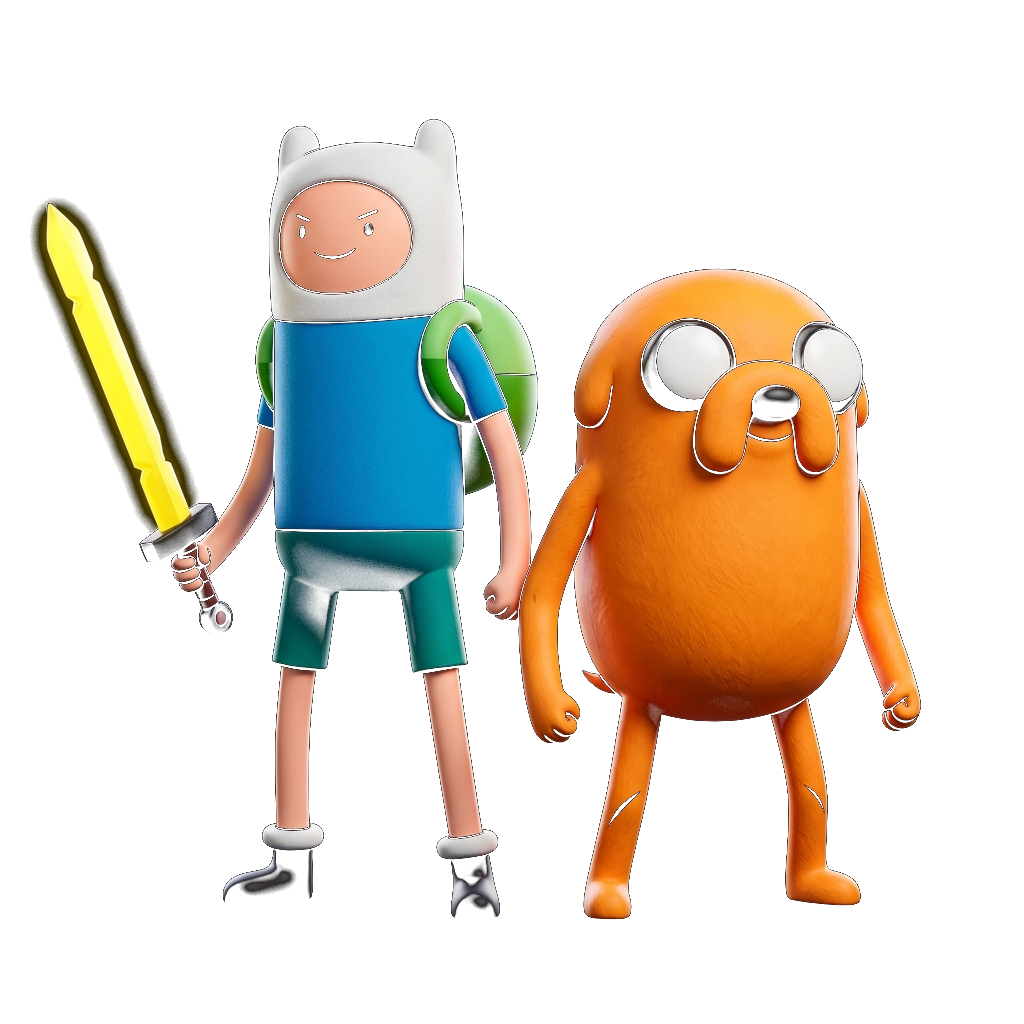
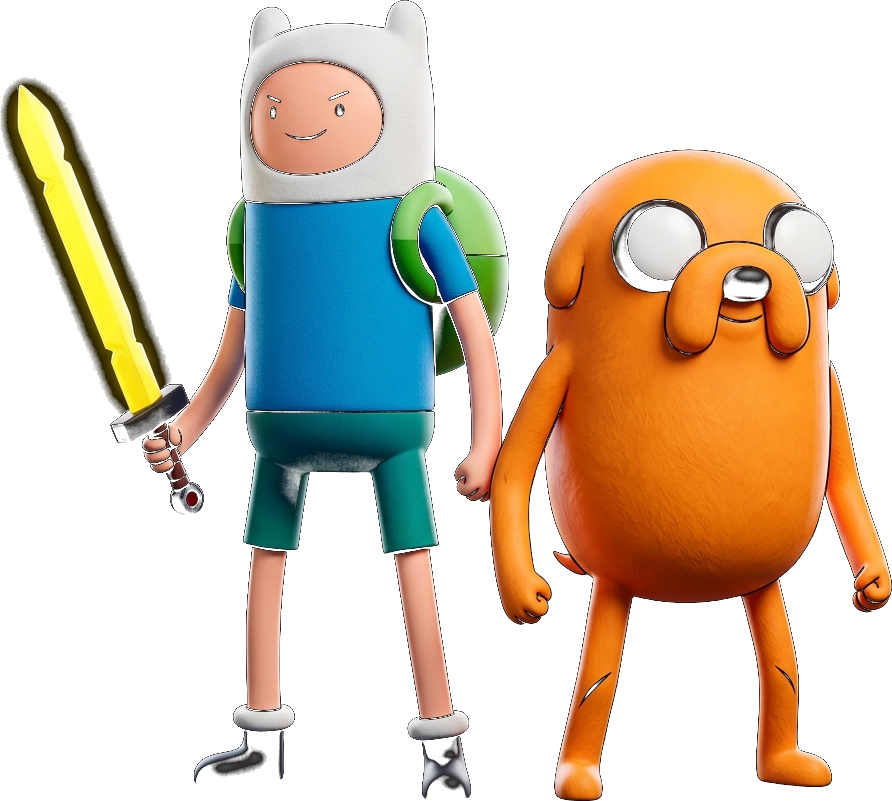
fix: remove all white background artifacts from cutouts, anchor cutouts to right edge, and blend into atmospheric scene

diff --git a/src/components/home/ThematicShowcase.tsx b/src/components/home/ThematicShowcase.tsx
@@ -451,7 +451,7 @@ const THEMATIC_BANNERS: ThematicBannerDef[] = [
     bgGradient: 'from-[#3a0815]/90 via-[#1e050c]/95 to-[#0b0306]',
     accentGlow: 'shadow-[0_0_80px_-20px_rgba(225,29,72,0.35)]',
     borderAccent: 'border-rose-900/30 hover:border-rose-500/40',
-    radialGlow: 'radial-gradient(circle at 65% 40%, rgba(225,29,72,0.32) 0%, rgba(159,18,57,0.15) 45%, transparent 75%)',
+    radialGlow: 'radial-gradient(circle at 82% 38%, rgba(225,29,72,0.42) 0%, rgba(159,18,57,0.18) 45%, transparent 75%)',
     cutoutArt: '/assets/cutouts/hotd-cutout.png',
     cutoutAlt: 'House of the Dragon - Daemon Targaryen',
     logoArt: 'https://image.tmdb.org/t/p/w500/sWW8VURTOT0yVLS6Jlxw6BQQUSZ.png',
@@ -558,7 +558,7 @@ const THEMATIC_BANNERS: ThematicBannerDef[] = [
     bgGradient: 'from-[#6b3306]/85 via-[#381602]/95 to-[#0d0501]',
     accentGlow: 'shadow-[0_0_80px_-20px_rgba(245,158,11,0.35)]',
     borderAccent: 'border-amber-900/30 hover:border-amber-500/40',
-    radialGlow: 'radial-gradient(circle at 65% 40%, rgba(245,158,11,0.32) 0%, rgba(180,83,9,0.15) 45%, transparent 75%)',
+    radialGlow: 'radial-gradient(circle at 82% 38%, rgba(245,158,11,0.42) 0%, rgba(180,83,9,0.18) 45%, transparent 75%)',
     cutoutArt: '/assets/cutouts/dune-cutout.png',
     cutoutAlt: 'Dune: Part Two - Paul Atreides & Chani',
     logoArt: 'https://image.tmdb.org/t/p/w500/eYvF1LhPKuoBxOAmWjFTAK7EPWl.png',
@@ -665,7 +665,7 @@ const THEMATIC_BANNERS: ThematicBannerDef[] = [
     bgGradient: 'from-[#0f223d]/90 via-[#0a1527]/95 to-[#020712]',
     accentGlow: 'shadow-[0_0_80px_-20px_rgba(56,189,248,0.3)]',
     borderAccent: 'border-sky-900/30 hover:border-sky-500/40',
-    radialGlow: 'radial-gradient(circle at 65% 40%, rgba(56,189,248,0.3) 0%, rgba(14,116,144,0.15) 45%, transparent 75%)',
+    radialGlow: 'radial-gradient(circle at 82% 38%, rgba(56,189,248,0.38) 0%, rgba(14,116,144,0.18) 45%, transparent 75%)',
     cutoutArt: '/assets/cutouts/got-cutout.png',
     cutoutAlt: 'Game of Thrones - Daenerys Targaryen & Jon Snow',
     logoArt: 'https://image.tmdb.org/t/p/w500/6pObznbCoxVpY1lPQwJxETd7Phe.png',
@@ -772,7 +772,7 @@ const THEMATIC_BANNERS: ThematicBannerDef[] = [
     bgGradient: 'from-[#044336]/85 via-[#022720]/95 to-[#010e0b]',
     accentGlow: 'shadow-[0_0_80px_-20px_rgba(20,184,166,0.35)]',
     borderAccent: 'border-teal-900/30 hover:border-teal-500/40',
-    radialGlow: 'radial-gradient(circle at 65% 40%, rgba(20,184,166,0.32) 0%, rgba(13,148,136,0.15) 45%, transparent 75%)',
+    radialGlow: 'radial-gradient(circle at 82% 38%, rgba(20,184,166,0.42) 0%, rgba(13,148,136,0.18) 45%, transparent 75%)',
     cutoutArt: '/assets/cutouts/naked-and-afraid-cutout.png',
     cutoutAlt: 'Naked and Afraid Survivalists',
     logoArt: 'https://image.tmdb.org/t/p/w500/8czXfVg26ohZB41TijcXkMcbedc.png',
@@ -879,7 +879,7 @@ const THEMATIC_BANNERS: ThematicBannerDef[] = [
     bgGradient: 'from-[#713f12]/85 via-[#452207]/95 to-[#120701]',
     accentGlow: 'shadow-[0_0_80px_-20px_rgba(234,179,8,0.35)]',
     borderAccent: 'border-yellow-900/30 hover:border-yellow-500/40',
-    radialGlow: 'radial-gradient(circle at 65% 40%, rgba(234,179,8,0.32) 0%, rgba(161,98,7,0.15) 45%, transparent 75%)',
+    radialGlow: 'radial-gradient(circle at 82% 38%, rgba(234,179,8,0.42) 0%, rgba(161,98,7,0.18) 45%, transparent 75%)',
     cutoutArt: '/assets/cutouts/family-cutout.png',
     cutoutAlt: 'Adventure Time - Finn & Jake',
     logoArt: 'https://image.tmdb.org/t/p/w500/rIi0lY2UftYuKDJ4OlIefDdijve.png',
@@ -1190,14 +1190,14 @@ export const ThematicShowcase: React.FC<ThematicShowcaseProps> = ({
 
               {/* Dynamic Atmospheric Radial Glow behind character cutout */}
               <div
-                className="absolute right-0 sm:right-6 lg:right-20 top-0 bottom-0 w-72 sm:w-[500px] lg:w-[680px] pointer-events-none select-none opacity-80 z-[3]"
+                className="absolute right-0 top-0 bottom-0 w-80 sm:w-[540px] lg:w-[720px] pointer-events-none select-none opacity-90 z-[3]"
                 style={{
                   background: banner.radialGlow,
                 }}
               />
 
-              {/* High-Impact Character Cutout PNG (Feathered top & bottom mask, prominently revealed above compact cards) */}
-              <div className="absolute right-1 xs:right-2 sm:right-6 md:right-10 lg:right-16 xl:right-24 2xl:right-28 top-2 sm:top-3 md:top-4 lg:top-5 h-[300px] sm:h-[400px] md:h-[470px] lg:h-[540px] xl:h-[610px] 2xl:h-[660px] pointer-events-none select-none z-[12] flex items-start [mask-image:linear-gradient(to_bottom,transparent_0%,black_6%,black_75%,transparent_100%)]">
+              {/* High-Impact Character Cutout PNG (Feathered mask and anchored to the right edge) */}
+              <div className="absolute right-0 sm:right-0 md:right-1 lg:right-2 xl:right-3 2xl:right-4 top-1 sm:top-2 md:top-3 lg:top-4 h-[320px] sm:h-[420px] md:h-[490px] lg:h-[560px] xl:h-[630px] 2xl:h-[680px] pointer-events-none select-none z-[12] flex items-start [mask-image:linear-gradient(to_bottom,transparent_0%,black_6%,black_78%,transparent_100%)]">
                 <img
                   src={banner.cutoutArt}
                   alt={banner.cutoutAlt}
@@ -1205,9 +1205,12 @@ export const ThematicShowcase: React.FC<ThematicShowcaseProps> = ({
                   onError={(e) => {
                     e.currentTarget.style.display = 'none';
                   }}
-                  className="h-full w-auto object-contain object-top filter drop-shadow-[0_16px_40px_rgba(0,0,0,0.85)] brightness-105"
+                  className="h-full w-auto object-contain object-top filter drop-shadow-[0_20px_45px_rgba(0,0,0,0.85)] drop-shadow-[0_0_50px_rgba(0,0,0,0.4)] brightness-100 contrast-[1.02]"
                 />
               </div>
+
+              {/* Bottom Dissolve Overlay: seamlessly dissolves character's waist/legs into the dark floor */}
+              <div className="absolute bottom-0 right-0 w-72 sm:w-[450px] lg:w-[600px] h-20 sm:h-28 bg-gradient-to-t from-[#141414] via-[#141414]/60 to-transparent pointer-events-none z-[13]" />
 
               <div className="relative max-w-[1720px] 2xl:max-w-[1880px] 3xl:max-w-[2200px] 4xl:max-w-[2600px] mx-auto px-3.5 sm:px-6 lg:px-12 3xl:px-16 space-y-3.5 sm:space-y-4.5 z-20">
                 {/* Banner Header: Prestigious Category Title, Spotlight Show Logo, & Tagline / Synopsis */}
